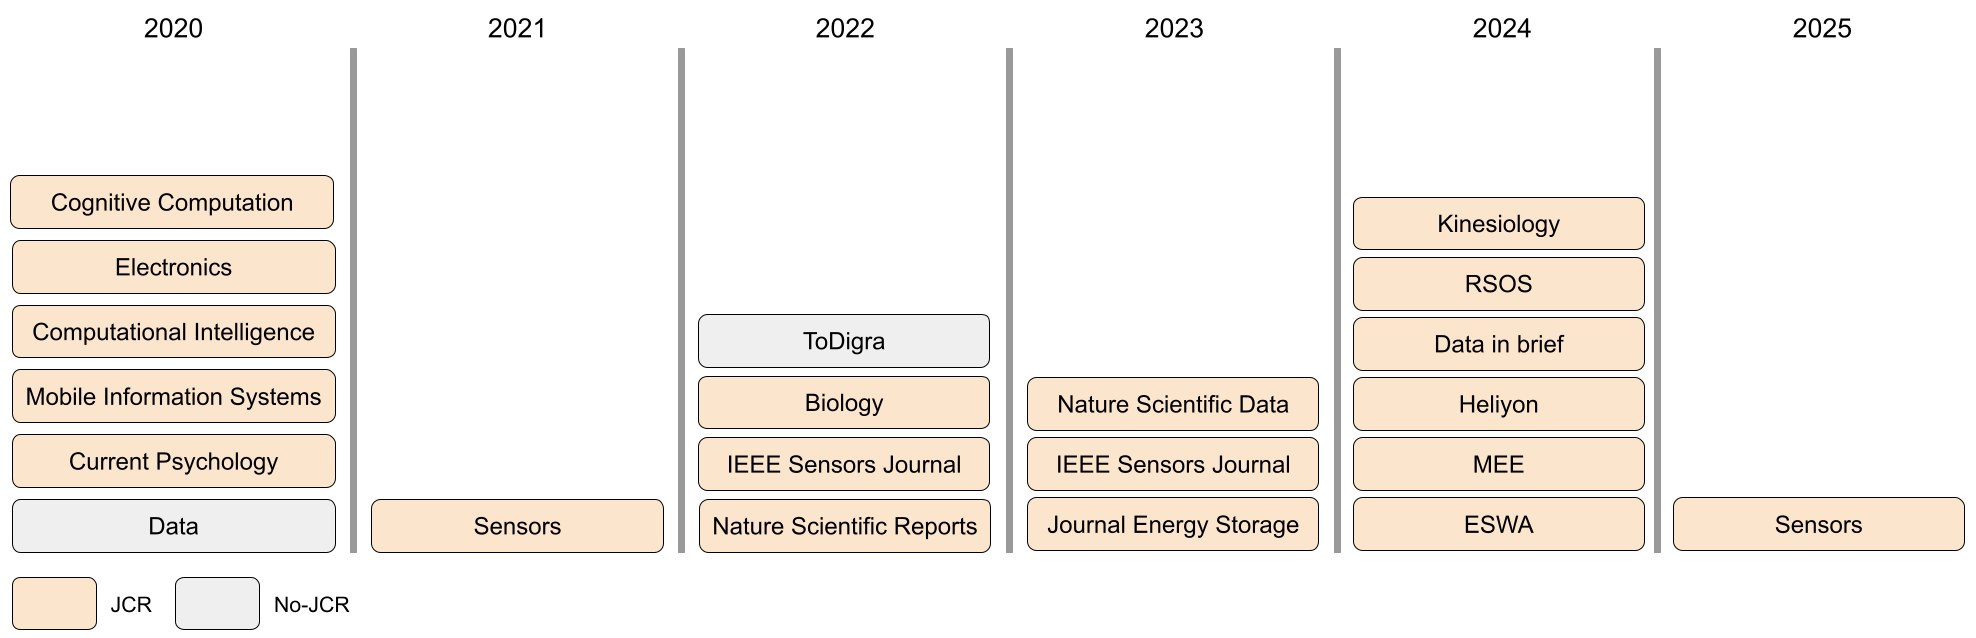
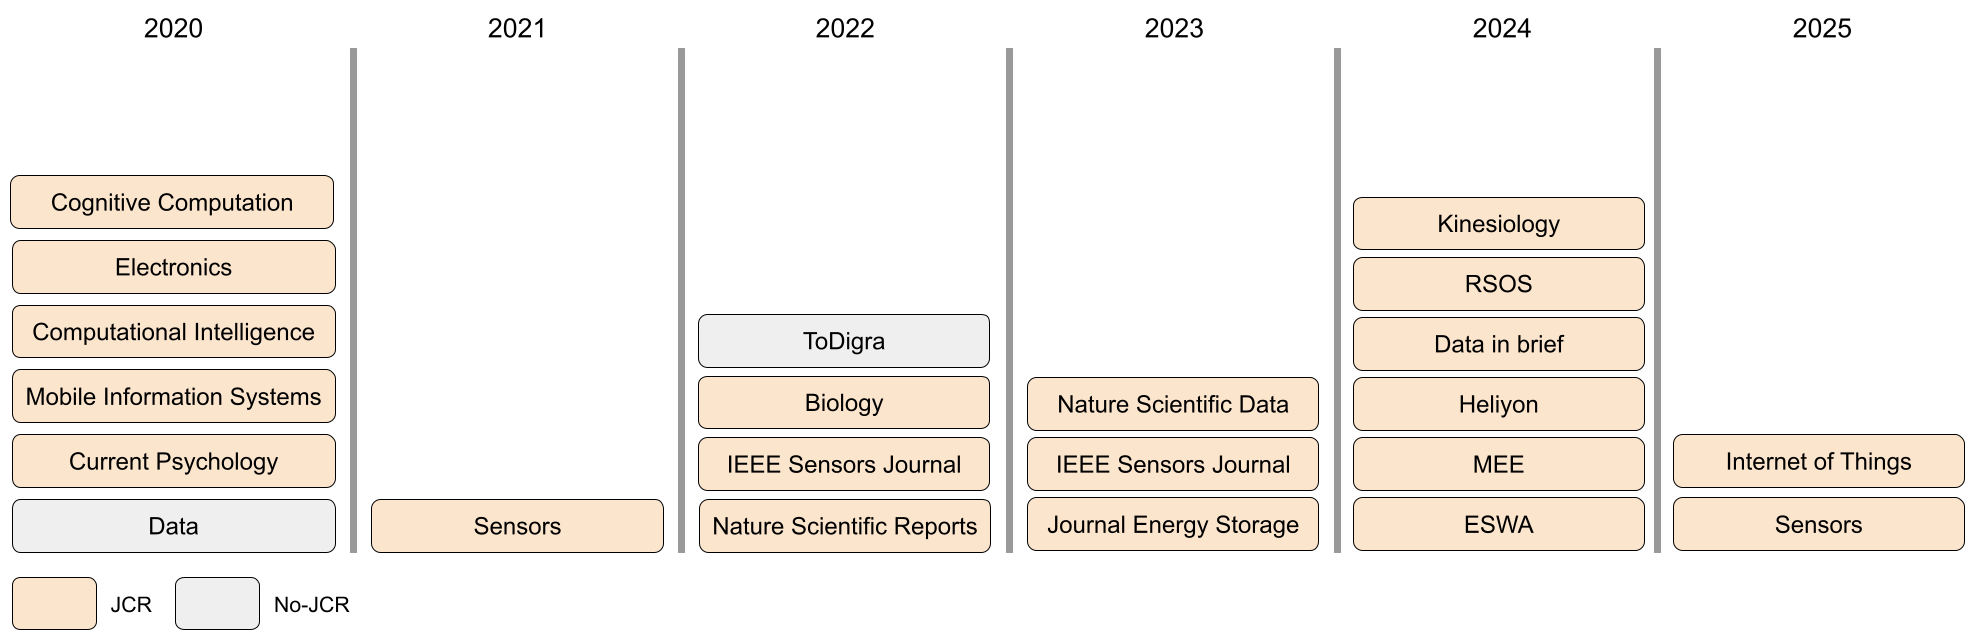
new pubs

Changed region(s): [[0.8335, 0.6552, 1.0, 0.7743]]

diff --git a/publications.html b/publications.html
@@ -101,6 +101,32 @@
 
 		<div class="row animate-box">
 				<div class="col-md-8 col-md-offset-2 text-center heading-section">
+					<p>Nicola Saccomanno, Andrea Brunello, Angelo Montanari, Raul Montoliu, Emilio Sansano-Sansano, Adriano Moreira, Joaquín Torres-Sospedra. 
+					<b> Empirical Insights into the Limits and Challenges of Temporal Generalization in CSI-Based Wi-Fi Sensing</b>.
+					Internet of Things. 2025. IN PRESS.
+				</div>
+			</div>
+
+		<div class="row animate-box">
+				<div class="col-md-8 col-md-offset-2 text-center heading-section">
+					<p>Hector Rubio, Alex Martínez-Martínez, Raúl Montoliu, Emilio Sansano-Sansano. 
+					<b>Detección y Consulta de Rutinas Diarias mediante algoritmos de agrupamiento temporal y modelos de lenguaje natural</b>.
+					32th Seminario Anual de Automática, Electrónica Industrial e Instrumentación (SAAEI’25). 
+				</div>
+			</div>
+
+
+		<div class="row animate-box">
+				<div class="col-md-8 col-md-offset-2 text-center heading-section">
+					<p>Joaquín Torres-Sospedra, Raul Montoliu, Antoni Pérez-Navarro. 
+					<b>Análisis Retrospectivo del Dataset UJIIndoorLoc</b>.
+					32th Seminario Anual de Automática, Electrónica Industrial e Instrumentación (SAAEI’25).  
+				</div>
+			</div>	
+
+
+		<div class="row animate-box">
+				<div class="col-md-8 col-md-offset-2 text-center heading-section">
 					<p>Raul Montoliu, Emilio Sansano-Sansano, Marina Martínez-García, Sergio Lluva-Plaza, Ana Jiménez-Martín, José Manuel Villadangos-Carrizo, Juan Jesús García-Domínguez. 
 					<b> Extracting daily routines from raw RSSI data</b>.
 					Sensors, 2025. 
